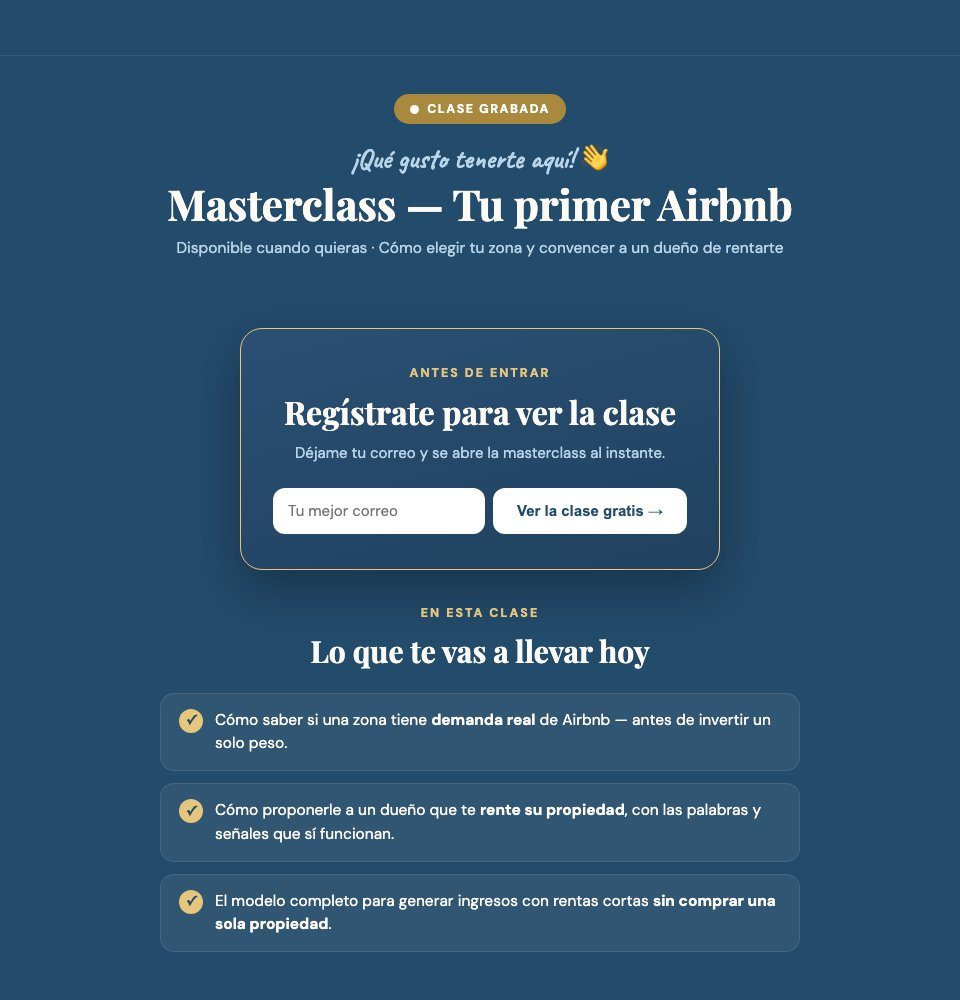
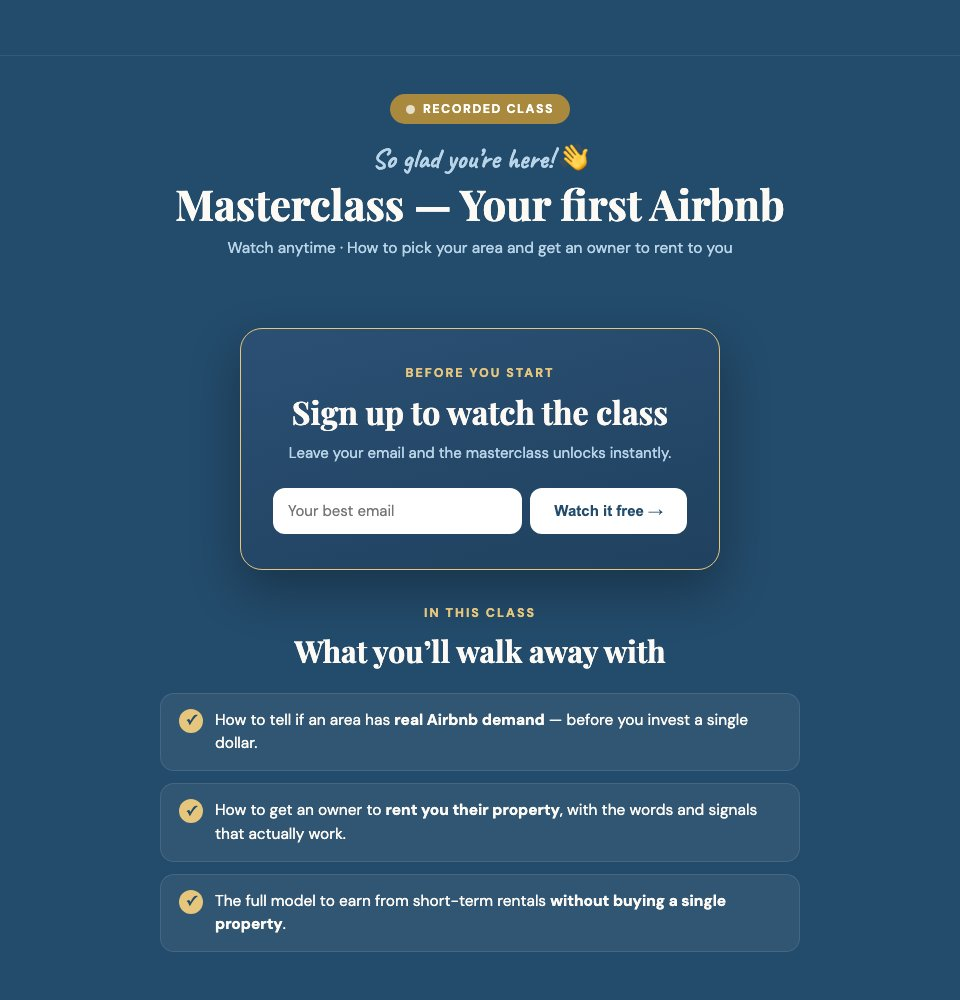
RankBreeze portfolio: more dynamic page, English landing, BU course, video order

diff --git a/rankbreeze/index.html b/rankbreeze/index.html
@@ -130,6 +130,42 @@
   .goal { align-self: flex-start; font-size: 11.5px; font-weight: 700; letter-spacing: 1px; text-transform: uppercase; color: var(--sky-deeper); background: var(--gold); border-radius: 99px; padding: 4px 10px; }
   .goal.alt { background: var(--sky-light); }
 
+  /* DYNAMIC BITS */
+  #progress { position: fixed; top: 0; left: 0; height: 3px; width: 0; background: linear-gradient(90deg, var(--gold), var(--sky-light)); z-index: 60; }
+  .ticker { background: var(--gold); color: var(--sky-deeper); overflow: hidden; padding: 13px 0; }
+  .tick-track { display: flex; gap: 22px; width: max-content; animation: scroll 38s linear infinite; font-weight: 700; font-size: 15px; white-space: nowrap; }
+  .tick-track i { font-style: normal; opacity: .55; }
+  .flips { display: grid; grid-template-columns: repeat(3, 1fr); gap: 14px; margin-top: 30px; }
+  .flip { background: none; border: 0; padding: 0; margin: 0; font: inherit; color: inherit; text-align: left; width: 100%; display: block; cursor: pointer; perspective: 1200px; border-radius: 20px; }
+  .flip:focus-visible { outline: 3px solid var(--sky); outline-offset: 3px; }
+  .flip-in { display: grid; transition: transform .7s cubic-bezier(.2,.8,.2,1); transform-style: preserve-3d; min-height: 196px; }
+  .face { grid-area: 1 / 1; display: flex; flex-direction: column; border-radius: 20px; padding: 22px; backface-visibility: hidden; -webkit-backface-visibility: hidden; }
+  .front { background: var(--sky-pale); border: 1px solid var(--sky-light); }
+  .back { background: var(--sky-deeper); color: rgba(255,255,255,.85); transform: rotateY(180deg); justify-content: center; }
+  .face .ic { font-size: 30px; }
+  .face .who { font-size: 11px; font-weight: 700; letter-spacing: 2px; text-transform: uppercase; color: var(--gold-dark); margin-top: 10px; }
+  .back .who { color: var(--gold); margin: 0 0 8px; }
+  .face .ask { font-family: 'Playfair Display', serif; font-size: 22px; line-height: 1.2; color: var(--sky-deeper); margin-top: 4px; }
+  .face .hint { margin-top: auto; padding-top: 12px; font-size: 13px; font-weight: 600; color: var(--sky-deep); }
+  .face .pr { font-size: 16px; line-height: 1.5; }
+  .face .pr b { color: #fff; }
+  .flip.on .flip-in { transform: rotateY(180deg); }
+  @media (hover: hover) { .flip:hover .flip-in { transform: rotateY(180deg); } }
+  .tabs { position: relative; display: inline-flex; gap: 4px; background: #fff; border-radius: 99px; padding: 5px; margin-top: 28px; box-shadow: 0 8px 24px rgba(35,75,107,.08); }
+  .tab { all: unset; position: relative; z-index: 1; cursor: pointer; font-weight: 600; font-size: 14.5px; color: var(--sky-deep); padding: 10px 20px; border-radius: 99px; transition: color .3s; }
+  .tab.on { color: #fff; }
+  .tab:focus-visible { outline: 2px solid var(--sky); }
+  .tab-bar { position: absolute; top: 5px; bottom: 5px; left: 5px; border-radius: 99px; background: var(--sky-deep); transition: transform .4s cubic-bezier(.2,.8,.2,1), width .4s; }
+  .plays .play:not(.on) { display: none; }
+  .plays .play.on { animation: up .5s ease both; }
+  .proofs figure:first-child img { animation: bob 6s ease-in-out infinite; }
+  .step { transition: opacity .7s ease, transform .3s, box-shadow .3s; }
+  .step:hover { transform: translateY(-6px); box-shadow: 0 18px 36px rgba(35,75,107,.16); }
+  .step:not(:last-child)::after { animation: nudge 1.6s ease-in-out infinite; }
+  @keyframes nudge { 0%,100% { transform: translateX(50%); } 50% { transform: translateX(90%); } }
+  .kpi, .eng, .job, .idea, .en-card { transition: opacity .7s ease, transform .3s; }
+  .kpi:hover, .eng:hover, .job:hover { transform: translateY(-4px); }
+
   /* FIT TABLE */
   .fit { display: grid; gap: 10px; margin-top: 36px; }
   .row { display: grid; grid-template-columns: 1fr 1.5fr; gap: 0; border-radius: 16px; overflow: hidden; border: 1px solid var(--beige-dark); background: #fff; }
@@ -230,7 +266,7 @@
   .es-card p:last-child { margin-bottom: 0; }
 
   /* PLAYBOOK */
-  .plays { display: grid; grid-template-columns: repeat(3, 1fr); gap: 18px; margin-top: 36px; }
+  .plays { display: grid; grid-template-columns: 1fr; gap: 18px; margin-top: 22px; max-width: 760px; }
   .play { background: #fff; border-radius: 20px; padding: 26px; border-top: 4px solid var(--sky-deep); }
   .play:nth-child(2) { border-top-color: var(--sky); }
   .play:nth-child(3) { border-top-color: var(--gold); }
@@ -273,7 +309,8 @@
     .step::after { display: none; }
     .step.win { grid-column: 1 / -1; }
     .engine { grid-template-columns: 1fr 1fr; }
-    .ideas, .plays, .exp { grid-template-columns: 1fr 1fr; }
+    .ideas, .exp { grid-template-columns: 1fr 1fr; }
+    .flips { grid-template-columns: 1fr 1fr; }
     .nav-links a.t { display: none; }
   }
   @media (max-width: 640px) {
@@ -294,18 +331,22 @@
     .res { grid-template-columns: 1fr 1fr; }
     .videos { grid-auto-columns: 64%; padding: 0 16px 12px; }
     .marquee img { height: 190px; }
-    .ideas, .plays, .exp { grid-template-columns: 1fr; }
+    .ideas, .exp, .flips { grid-template-columns: 1fr; }
+    .flip-in { min-height: 170px; }
+    .tabs { display: flex; } .tab { flex: 1; text-align: center; padding: 10px 6px; font-size: 13.5px; }
     .script { grid-template-columns: 1fr; padding: 22px; gap: 14px; }
     .beats li { grid-template-columns: 64px 1fr; }
     .catch { flex-direction: column; align-items: flex-start; gap: 6px; }
   }
   @media (prefers-reduced-motion: reduce) {
-    .marquee, .float { animation: none; }
+    .marquee, .float, .tick-track, .proofs figure:first-child img, .step::after { animation: none !important; }
+    .flip-in, .reveal { transition: none; }
   }
 </style>
 </head>
 <body>
 
+<div id="progress" aria-hidden="true"></div>
 <nav id="nav">
   <a class="logo" href="#top">Sofía <span>× RankBreeze</span></a>
   <div class="nav-links">
@@ -341,12 +382,15 @@
   </div>
 </section>
 
+<!-- TICKER -->
+<div class="ticker" aria-hidden="true"><div class="tick-track"><span>🏠 33 listings</span><i>✦</i><span>⭐ 4.8 · 1,400+ reviews</span><i>✦</i><span>🚀 $20K launch</span><i>✦</i><span>🎯 500+ leads under $1</span><i>✦</i><span>📱 50K+ followers</span><i>✦</i><span>🎥 On camera, EN + ES</span><i>✦</i><span>✉ Email that sells</span><i>✦</i><span>📊 Outcomes, not likes</span><i>✦</i><span>🏠 33 listings</span><i>✦</i><span>⭐ 4.8 · 1,400+ reviews</span><i>✦</i><span>🚀 $20K launch</span><i>✦</i><span>🎯 500+ leads under $1</span><i>✦</i><span>📱 50K+ followers</span><i>✦</i><span>🎥 On camera, EN + ES</span><i>✦</i><span>✉ Email that sells</span><i>✦</i><span>📊 Outcomes, not likes</span><i>✦</i></div></div>
+
 <!-- FUNNEL CASE -->
 <section class="funnel" id="funnel">
   <div class="wrap">
     <span class="eyebrow">Case 01 · A funnel I designed &amp; operated</span>
     <h2>A system, not a class. <em>$20K USD in sales.</em></h2>
-    <p class="sub">I built every piece — landing page, ads, emails, WhatsApp community, live class and offer — then ran it end to end.</p>
+    <p class="sub">Every piece built and run by me. Five steps, one number at the end.</p>
     <div class="formula">Landing → email/WhatsApp nurture → live class → high-ticket offer → $20K USD in sales</div>
     <div class="steps">
       <div class="step reveal"><div class="n">1</div><h3>Sign-up</h3><p>Landing page fed by reels, carousels and Meta Ads. Free checklist as the hook.</p><div class="m"><b>300+</b><span>sign-ups</span></div></div>
@@ -361,8 +405,8 @@
         <figcaption>Teaching the live class on camera (slide translated; the class was in Spanish).</figcaption>
       </figure>
       <figure class="reveal">
-        <div class="browser"><div class="bar"><i></i><i></i><i></i><span>sofiaretif.com/en-vivo</span></div><img src="/assets/rankbreeze/live-funnel-landing.jpg" alt="The class landing page with an email sign-up form" loading="lazy"></div>
-        <figcaption>The landing, still live as an evergreen replay.</figcaption>
+        <div class="browser"><div class="bar"><i></i><i></i><i></i><span>sofiaretif.com/en-vivo</span></div><img src="/assets/rankbreeze/live-funnel-landing.jpg" alt="The class landing page with an email sign-up form, translated to English" loading="lazy"></div>
+        <figcaption>The landing, translated for this page (the live one is in Spanish).</figcaption>
       </figure>
     </div>
     <div class="rebuild reveal">
@@ -403,14 +447,8 @@
   <div class="wrap">
     <span class="eyebrow">English content for STR hosts</span>
     <h2>Same audience, <em>already in English.</em></h2>
-    <p class="sub">On camera for Bonzo, a tax &amp; compliance service for US and Canadian owners of Airbnbs in Mexico. Scripted to turn a dry topic into a reason to book a call. Tap any video for sound.</p>
+    <p class="sub">For Bonzo, tax &amp; compliance for US and Canadian Airbnb owners in Mexico. Dry topic → booked call. Tap for sound.</p>
     <div class="en-grid">
-      <div class="en-card reveal">
-        <div class="reel"><span class="vtag">Tax strategy</span><video src="/assets/rankbreeze/en-4.mp4" poster="/assets/rankbreeze/en-4.jpg" muted loop playsinline preload="none"></video><span class="snd">🔇</span></div>
-        <h3>"Is your Mexican Airbnb 20% less profitable?"</h3>
-        <p>A tax-strategy hook: the hidden cost of not being compliant, framed as lost profit.</p>
-        <span class="goal">Lead · free tax assessment</span>
-      </div>
       <div class="en-card reveal">
         <div class="reel"><span class="vtag">Compliance</span><video src="/assets/rankbreeze/en-2.mp4" poster="/assets/rankbreeze/en-2.jpg" muted loop playsinline preload="none"></video><span class="snd">🔇</span></div>
         <h3>Report your rental income, avoid the fines</h3>
@@ -428,6 +466,12 @@
         <h3>"We handle compliance for you."</h3>
         <p>Finding a good accountant, made light: the brand as the easy answer.</p>
         <span class="goal alt">Brand trust</span>
+      </div>
+      <div class="en-card reveal">
+        <div class="reel"><span class="vtag">Tax strategy</span><video src="/assets/rankbreeze/en-4.mp4" poster="/assets/rankbreeze/en-4.jpg" muted loop playsinline preload="none"></video><span class="snd">🔇</span></div>
+        <h3>"Is your Mexican Airbnb 20% less profitable?"</h3>
+        <p>A tax-strategy hook: the hidden cost of not being compliant, framed as lost profit.</p>
+        <span class="goal">Lead · free tax assessment</span>
       </div>
     </div>
   </div>
@@ -452,13 +496,33 @@
   <div class="wrap">
     <span class="eyebrow">Your list → my proof</span>
     <h2>You described the hire. <em>Here's the evidence.</em></h2>
-    <div class="fit">
-      <div class="row reveal"><div class="ask"><i>You</i>Explains complex topics simply</div><div class="proof">I teach pricing, rankings and occupancy to <b>people who have never hosted</b> — 150+ of them paid for it.</div></div>
-      <div class="row reveal"><div class="ask"><i>You</i>Content that drives sign-ups, not engagement</div><div class="proof">Short-form → webinar → email → offer: <b>300+ webinar sign-ups and $20K USD</b> from one launch.</div></div>
-      <div class="row reveal"><div class="ask"><i>You</i>Comfortable on camera</div><div class="proof">On camera weekly for my own brand, and paid UGC for brands like <b>Canva</b>.</div></div>
-      <div class="row reveal"><div class="ask"><i>You</i>Tests hooks, offers, pages</div><div class="proof">Re-priced my bootcamp into tiers and <b>grew launch revenue with a lower entry price</b>.</div></div>
-      <div class="row reveal"><div class="ask"><i>You</i>Activity ≠ outcomes</div><div class="proof">Caught Meta reporting 478 "leads" when real sign-ups were far lower, and <b>fixed the event before scaling spend</b>.</div></div>
-      <div class="row reveal"><div class="ask"><i>Nice to have</i>STR / Airbnb experience</div><div class="proof">Not just "experience": <b>it's my business</b>. 33 listings, cleaning teams, owners, pricing, reviews.</div></div>
+    <p class="sub">Hover or tap a card.</p>
+    <div class="flips">
+      <button class="flip reveal" type="button" aria-label="Explains complex topics simply: show proof"><span class="flip-in">
+        <span class="face front"><span class="ic">🧠</span><span class="who">You asked</span><span class="ask">Explains complex topics simply</span><span class="hint">See proof ↻</span></span>
+        <span class="face back"><span class="who">Proof</span><span class="pr">I teach pricing, rankings and occupancy to <b>people who have never hosted</b> — 150+ of them paid for it.</span></span>
+      </span></button>
+      <button class="flip reveal" type="button" aria-label="Content that drives sign-ups: show proof"><span class="flip-in">
+        <span class="face front"><span class="ic">🎯</span><span class="who">You asked</span><span class="ask">Content that drives sign-ups</span><span class="hint">See proof ↻</span></span>
+        <span class="face back"><span class="who">Proof</span><span class="pr">Short-form → webinar → email → offer: <b>300+ sign-ups and $20K USD</b> from one launch.</span></span>
+      </span></button>
+      <button class="flip reveal" type="button" aria-label="Comfortable on camera: show proof"><span class="flip-in">
+        <span class="face front"><span class="ic">🎥</span><span class="who">You asked</span><span class="ask">Comfortable on camera</span><span class="hint">See proof ↻</span></span>
+        <span class="face back"><span class="who">Proof</span><span class="pr">On camera weekly for my own brand, in <b>English for Bonzo</b>, and paid UGC for <b>Canva</b>.</span></span>
+      </span></button>
+      <button class="flip reveal" type="button" aria-label="Tests hooks, offers, pages: show proof"><span class="flip-in">
+        <span class="face front"><span class="ic">🧪</span><span class="who">You asked</span><span class="ask">Tests hooks, offers, pages</span><span class="hint">See proof ↻</span></span>
+        <span class="face back"><span class="who">Proof</span><span class="pr">Re-priced my bootcamp into tiers and <b>grew launch revenue with a lower entry price</b>.</span></span>
+      </span></button>
+      <button class="flip reveal" type="button" aria-label="Activity ≠ outcomes: show proof"><span class="flip-in">
+        <span class="face front"><span class="ic">📊</span><span class="who">You asked</span><span class="ask">Activity ≠ outcomes</span><span class="hint">See proof ↻</span></span>
+        <span class="face back"><span class="who">Proof</span><span class="pr">Caught Meta counting 478 fake "leads" and <b>fixed the event before scaling spend</b>.</span></span>
+      </span></button>
+      <button class="flip reveal" type="button" aria-label="STR / Airbnb experience: show proof"><span class="flip-in">
+        <span class="face front"><span class="ic">🏠</span><span class="who">Nice to have</span><span class="ask">STR / Airbnb experience</span><span class="hint">See proof ↻</span></span>
+        <span class="face back"><span class="who">Proof</span><span class="pr">Not just experience: <b>it’s my business</b>. 33 listings, owners, teams, pricing, reviews.</span></span>
+      </span></button>
+    </div>
     </div>
   </div>
 </section>
@@ -468,7 +532,7 @@
   <div class="wrap">
     <span class="eyebrow">Case 03 · Ubícame · my STR business</span>
     <h2>I live inside the data <em>your product shows.</em></h2>
-    <p class="sub">Ubícame is the short-term rental company I run in Guadalajara: furnished apartments across five neighborhoods, sold on Airbnb and through our own direct-booking site.</p>
+    <p class="sub">Ubícame: my short-term rental company in Guadalajara. Airbnb + our own direct-booking site.</p>
     <div class="host-grid">
       <div class="photos reveal">
         <img src="/assets/rankbreeze/ubicame-living.jpg" alt="Living room of a Ubícame apartment" loading="lazy">
@@ -600,8 +664,9 @@
   <div class="wrap">
     <span class="eyebrow">Built on your "success in the first months"</span>
     <h2>My first 90 days, <em>measured your way.</em></h2>
+    <div class="tabs" role="tablist"><button class="tab on" type="button" data-t="0">Days 1–30</button><button class="tab" type="button" data-t="1">Days 31–60</button><button class="tab" type="button" data-t="2">Days 61–90</button><span class="tab-bar"></span></div>
     <div class="plays">
-      <div class="play reveal"><div class="when">Days 1–30</div><h3>Learn &amp; fix the leaks</h3>
+      <div class="play on reveal"><div class="when">Days 1–30</div><h3>Learn &amp; fix the leaks</h3>
         <ul><li>Run RankBreeze on my own 33 listings: become the case study.</li><li>Audit the funnel: site → trial → paid. Find the biggest drop.</li><li>Fix tracking first, so every test after it is real.</li><li>Ship the first 8 short videos and 1 lead magnet.</li></ul>
         <div class="metric">Goal: funnel baseline + weekly content cadence live</div></div>
       <div class="play reveal"><div class="when">Days 31–60</div><h3>Build the engine</h3>
@@ -630,6 +695,7 @@
     <div class="edu">
       <div class="reveal"><b>MSc in Digital Business</b><span>EMLV · École de Management Léonard de Vinci, Paris</span></div>
       <div class="reveal"><b>B.A. in Marketing</b><span>UAG · Universidad Autónoma de Guadalajara</span></div>
+      <div class="reveal"><b>Leadership course</b><span>Boston University</span></div>
     </div>
     <div class="tools">
       <span>Meta Ads</span><span>GA4</span><span>UTM &amp; Pixel</span><span>Mailchimp</span><span>MailerLite</span><span>Stripe</span><span>HTML/CSS landing pages</span><span>Canva</span><span>CapCut</span><span>Notion</span><span>ClickUp</span><span>Claude (daily)</span>
@@ -665,15 +731,52 @@
   const onScroll = () => nav.classList.toggle('scrolled', window.scrollY > 60);
   window.addEventListener('scroll', onScroll, { passive: true }); onScroll();
 
-  // Reveal + count-up
+  // Scroll progress
+  const bar = document.getElementById('progress');
+  const onProg = () => { const h = document.documentElement; bar.style.width = (h.scrollTop / (h.scrollHeight - h.clientHeight) * 100) + '%'; };
+  window.addEventListener('scroll', onProg, { passive: true }); onProg();
+
+  // Every big number counts up: "$20K", "1,400+", "4.8★", "<$1"…
+  document.querySelectorAll('.step .m b, .res b, .kpi b, .eng b, .es-card b, .float b').forEach(el => {
+    const m = el.textContent.match(/^([^\d]*)(\d[\d,]*(?:\.\d+)?)([^\d]*)$/);
+    if (!m) return;
+    const dec = (m[2].split('.')[1] || '').length;
+    el.dataset.count = m[2].replace(/,/g, '');
+    el.dataset.fmt = m[1] + '{}' + m[3];
+    el.dataset.dec = dec; el.dataset.comma = m[2].includes(',') ? 1 : 0;
+  });
+
+  // Reveal (staggered) + count-up
   const countUp = el => {
-    const end = +el.dataset.count, fmt = el.dataset.fmt, t0 = performance.now();
-    const tick = t => { const p = Math.min((t - t0) / 1200, 1); el.textContent = fmt.replace('{}', Math.round(end * (1 - Math.pow(1 - p, 3)))); if (p < 1) requestAnimationFrame(tick); };
+    const end = +el.dataset.count, fmt = el.dataset.fmt, dec = +(el.dataset.dec || 0), t0 = performance.now();
+    const show = v => { let s = v.toFixed(dec); if (+el.dataset.comma) s = (+s).toLocaleString('en-US'); return fmt.replace('{}', s); };
+    const tick = t => { const p = Math.min((t - t0) / 1200, 1); el.textContent = show(end * (1 - Math.pow(1 - p, 3))); if (p < 1) requestAnimationFrame(tick); };
     requestAnimationFrame(tick);
   };
+  document.querySelectorAll('.reveal').forEach(el => {
+    const sibs = [...el.parentElement.children].filter(c => c.classList.contains('reveal'));
+    el.style.transitionDelay = Math.min(sibs.indexOf(el), 5) * 90 + 'ms';
+  });
+  const heroNums = document.querySelectorAll('.float b[data-count]');
+  heroNums.forEach(countUp);
+
+  // Flip cards: hover on desktop, tap anywhere
+  document.querySelectorAll('.flip').forEach(f => f.addEventListener('click', () => f.classList.toggle('on')));
+
+  // 30/60/90 tabs
+  const tabs = [...document.querySelectorAll('.tab')], plays = [...document.querySelectorAll('.plays .play')], tbar = document.querySelector('.tab-bar');
+  const pick = i => {
+    tabs.forEach((t, k) => { t.classList.toggle('on', k === i); t.setAttribute('aria-selected', k === i); });
+    plays.forEach((p, k) => { p.classList.toggle('on', k === i); if (k === i) p.classList.add('show'); });
+    tbar.style.width = tabs[i].offsetWidth + 'px'; tbar.style.transform = `translateX(${tabs[i].offsetLeft - 5}px)`;
+  };
+  tabs.forEach((t, i) => t.addEventListener('click', () => pick(i)));
+  window.addEventListener('resize', () => pick(tabs.findIndex(t => t.classList.contains('on'))));
+  pick(0);
   const io = new IntersectionObserver(es => es.forEach(e => {
     if (!e.isIntersecting) return;
     e.target.classList.add('show');
+    setTimeout(() => { e.target.style.transitionDelay = ''; }, 1400);
     e.target.querySelectorAll('[data-count]').forEach(countUp);
     io.unobserve(e.target);
   }), { threshold: .15 });
